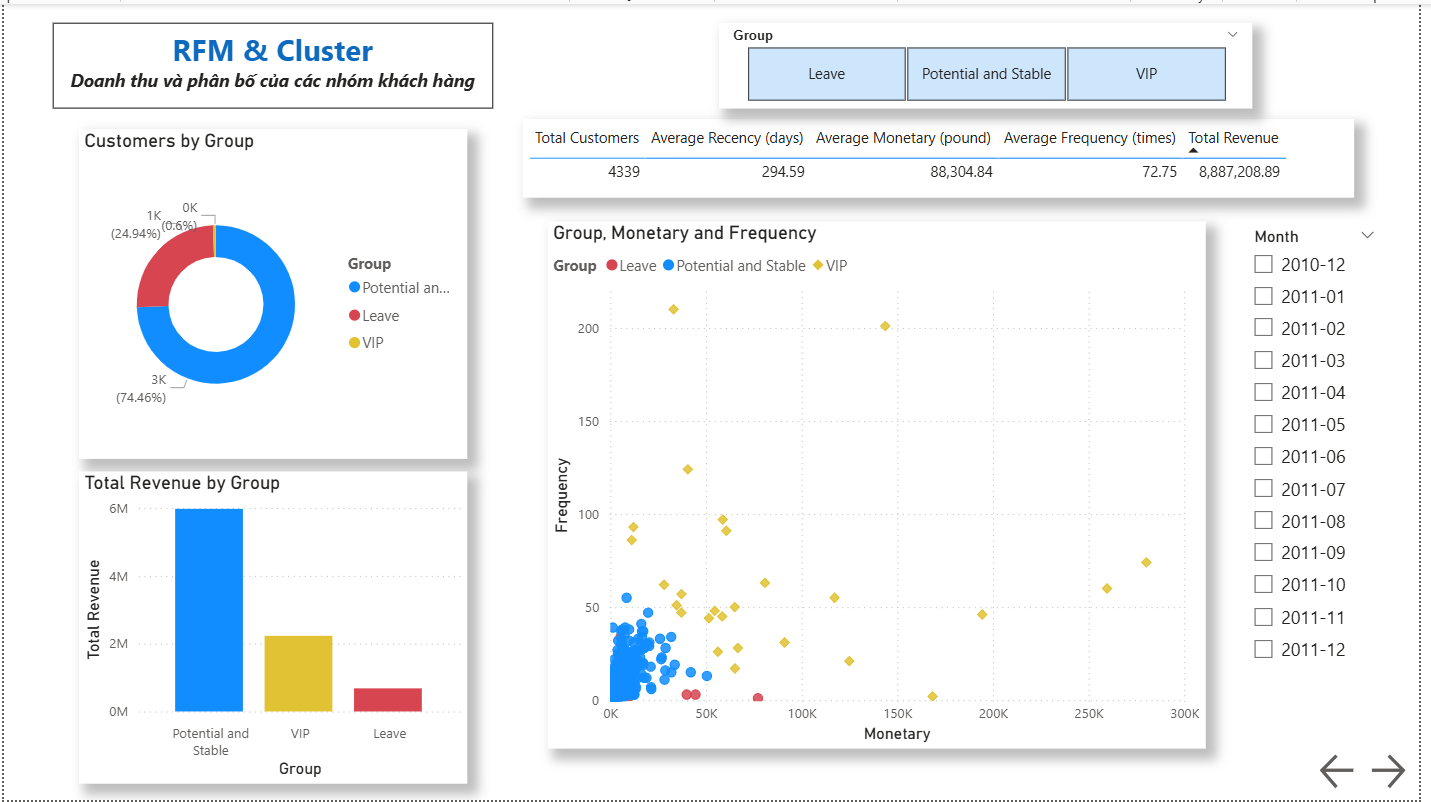
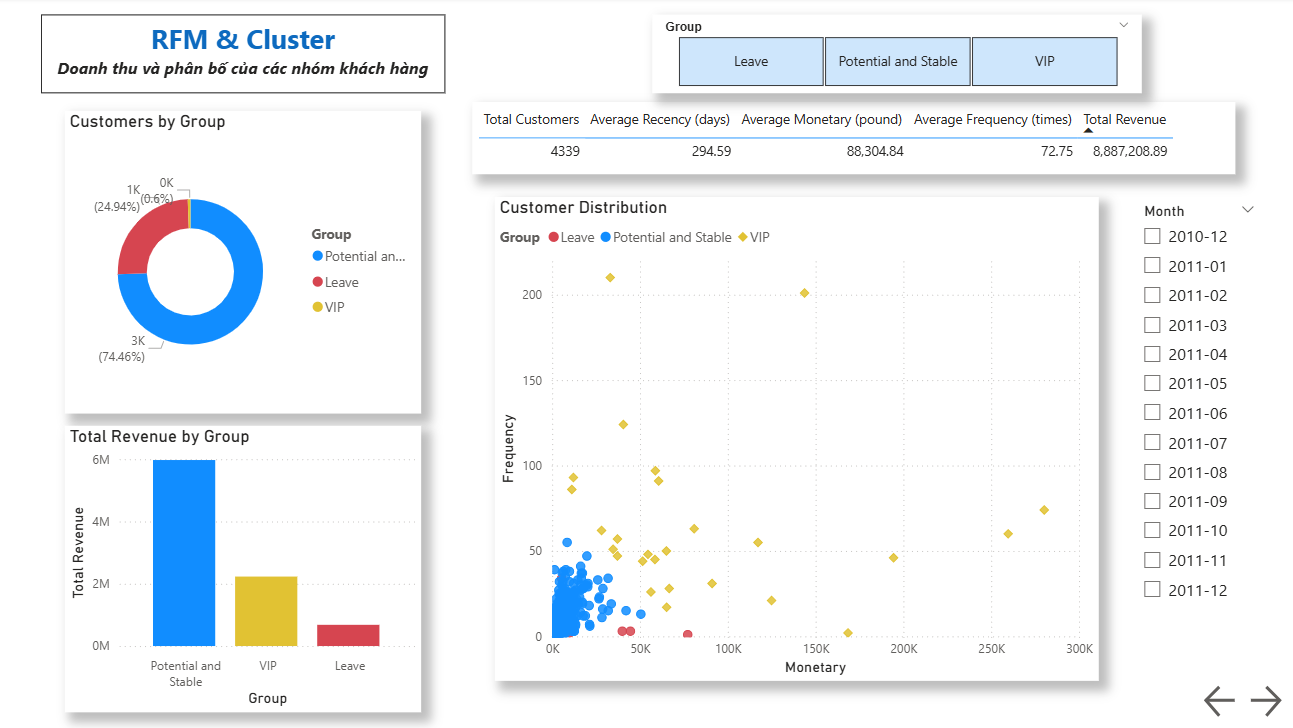
Update reports

diff --git a/reports/Project_Summary.md b/reports/Project_Summary.md
@@ -2,3 +2,89 @@
 
 ## 1. Mục tiêu dự án
 
+- Dự án gồm 4 mục tiêu chính sau đây:
+    + Phân tích hành vi khách hàng từ dữ liệu giao dịch.
+    + Phân cụm khách hàng sử dụng các chỉ số RFM và thuật toán Kmeans để xác định các nhóm khách hàng có hành vi tương tự nhau.
+    + Mô phỏng tác động của các chiến lược giả định dựa vào các chỉ số Retention, Frequency và AOV vào doanh thu.
+    + Xây dựng Dashboard trực quan hóa dữ liệu bằng PowerBI để hỗ trợ ra quyết định kinh doanh cho công ty.
+
+## 2. Nguồn dữ liệu
+
+- Bộ dữ liệu được lấy từ UCI Machine Learning. Đường link: https://archive.ics.uci.edu/dataset/352/online+retail. Bộ dữ liệu bao gồm tập hợp các giao dịch của các khách hàng từ 1/12/2010 đến 9/12/2011 ở UK của một công ty bán lẻ trực tuyến không thông qua cửa hàng. Công ty chủ yếu bán các món hàng quà tặng độc đáo và khách hàng đa số là các nhà buôn bán sỉ.
+    
+- Để đưa vào PowerBI sau quá trình xử lý được tách ra thành các bảng chính:
+    + orders_details: Chi tiết đơn hàng
+    + sales_by_month: Doanh thu theo tháng
+    + customer_rfm: Điểm RFM theo từng khách hàng
+    + cluster_summary: Kết quả tóm tắt phân cụm
+    + strategy_impact: Kịch bản chiến lược giả định
+
+## 3. Công cụ và kỹ thuật sử dụng
+
+### Ngôn ngữ **Python**:
+
+- Tiền xử lý dữ liệu: Sử dụng Pandas để loại bỏ các giá trị thiếu, lặp. Chuyển đổi kiểu dữ liệu, tạo thêm các cột cần thiết
+- EDA: Sử dụng matplotlib và seaborn để trực quan hóa dữ liệu. Tìm các insight và đưa ra các câu hỏi cần thiết đồng thời đưa ra các nhận định liên quan.
+- Thuật toán Kmeans để phân cụm khách hàng dựa vào các điểm số R-F-M. Những người có những hành vi tương đồng như thời gian mua kể từ lần cuối, số tiền đã sử dụng cho việc thanh toán, tần suất mua trong quá trình được khảo sát sẽ được đưa về 1 nhóm. Sau thuật toán, những khách hàng trong bộ dữ liệu được chia làm 3 nhóm: Leave (những người có xu hướng rời bỏ, rất lâu rồi chưa mua lại, số tiền sử dụng ít và tần suất mua thấp), Stable and Potential (những người có xu hướng trung thành, mua nhiều lần và có số tiền sử dụng tương đối và tần suất mua trung bình), VIP (những người có xu hướng mua nhiều lần, số tiền sử dụng nhiều và tần suất mua cao).
+
+### Công cụ trực quan: **PowerBI**
+
+- Sử dụng các công thức DAX để tính toán các chỉ số cần thiết.
+- Tạo các biểu đồ chi tiết hơn để tìm ra insight dữ liệu.
+
+### Kỹ thuật phân tích:
+
+- RFM Analysis: sử dụng các chỉ số R (Recency), F (Frequency) và M (Monetary) để xác định các nhóm khách hàng có hành vi tương tự nhau.
+- Customer Segmentation (Clustering): Sử dụng thuật toán Kmeans để phân cụm khách hàng dựa trên các chỉ số RFM.
+- Suggetion Strategy: Sử dụng các chỉ số Retention, Frequency và AOV để mô phỏng tác động của các chiến lược giả định vào doanh thu.
+
+## 4 Kết quả chính
+
+- Xác định được 3 nhóm khách hàng với các hành vi mua hàng khác nhau. Những nhóm khách hàng này có thể áp dụng các chiến lược khác nhau để tối ưu doanh thu và chi phí vận hành các chiến dịch.
+- Đề xuất các chiến lược hợp lý cho từng nhóm. Các chiến lược sẽ sử dụng thêm các trọng số trên từng yếu tố để không bị phóng đại doanh thu kỳ vọng. Dự án sử dụng 3 yếu tố chính để đánh giá 1 chiến lược tác động vào doanh thu dựa vào doanh thu hiện tại là: retention rate (% khách hàng quay lại hoặc giữ lại thêm), frequency uplift (số lần mua tăng thêm của 1 khách hàng), aov uplift (% giá trị đơn hàng tăng thêm dựa vào cross-sell, upsell).
+
+### Các chiến lược được đề xuất trong dự án gồm 4 kịch bản:
+
+- Kịch bản 1: Tăng trưởng nhanh những rủi ro cao:
+
+    + Đối với nhóm khách hàng rời bỏ (1) ta dự định sẽ tung ra chiến dịch tặng voucher để lôi kéo họ quay lại tập trung vào Retention và do họ quay lại thì freq_uplift có thể tăng nhẹ nhưng AOV của họ sẽ thấp.
+    + Đối với nhóm khách hàng tiềm năng và ổn định (0) ta chăm sóc bằng email và sẽ làm tăng khả năng mua thêm của nhóm này ta có retention_target vừa phải do nhóm này rủi ro rời bỏ không quá cao. Khuyến khích họ mua nhiều hơn với các chương trình giảm giá đồng thời thúc đấy AOV tăng nhẹ bằng upsell ở giỏ hàng.
+    + Đối với nhóm khách hàng VIP (2) ta dự định tặng VIP membership và dự kiến họ sẽ mua nhiều hơn một chút các chỉ số retention_target = 0.15, freq_uplift = 0.1, aov_uplift = 0.2 (tăng 20% giá trị đơn hàng). Cần đặt nặng vào AOV và Frequency ít hơn ở Retention
+
+- Kịch bản 2: Thận trọng tăng trưởng bền vững với rủi ro ở mức thấp nhất:
+
+    + Khách hàng rời bỏ: Tập trung giữ chân, ít ưu tiên cross-sell hơn retention_target = 0.1. Tăng tần suất mua của nhóm này ở mức thấp freq_uplift = 0.1 kéo theo AOV gần như không đổi aov_uplift = 0.01. Trọng số nghiêng mạnh về retention
+    + Khách hàng VIP: Chủ yếu giữ chân và ít tập trung vào 2 yếu tố còn lại. retention_target = 0.05, freq_uplift = 0.05, aov_uplift = 0.01.
+    + Khách hàng tiềm năng và ổn định: Chiến dịch nhẹ nhàng tập trung cao vào độ ổn định. retention_target = 0.05, freq_uplift = 0.1, aov_uplift = 0.02.
+
+- Kịch bản 3: Tối ưu chi phí giữ chân khách hàng nhiều nhất có thể với chi phí tối ưu nhất
+
+    + Khách hàng rời bỏ: cố gắng tăng retention (0.05) và không tập trung tăng freq và aov.
+    + Khách hàng VIP: Gần như giữ nguyên và không đẩy nhiều khuyến mãi
+    + Khách hàng tiềm năng và ổn định: tăng nhẹ AOV bằng cross-sell
+
+- Giả định rằng từng chiến dịch ở mỗi kịch bản đều thành công thì doanh thu kỳ vọng cho thấy với Kịch bản 1 cho mức tăng trưởng 22,33%, Kịch bản 2 cho mức tăng trưởng 5,89% và Kịch bản 3 cho mức tăng trưởng 0,90.
+
+## 5 Dashboard 
+
+- Sử dụng PowerBI trực quan hóa dữ liệu gồm 3 trang.
+    + Trang 1: Trực quan hóa doanh thu (theo từng tháng, quý, năm). Các sản phẩm cho doanh thu cao nhất, các khách hàng đóng góp nhiều vào doanh thu nhất. Số lượng đơn hàng theo quý, năm. Doanh thu tổng hợp theo từng quốc gia mua hàng.
+    + Trang 2: Tỷ trọng khách hàng theo từng nhóm, doanh thu theo từng nhóm, phân bố của nhóm theo các chỉ số RFM.
+    + Trang 3: Thay đổi doanh thu theo các yếu tố, doanh thu kỳ vọng theo từng kịch bản và doanh thu kỳ vọng theo từng nhóm.
+
+- Link PowerBI Service: https://app.powerbi.com/links/aM35kkihLh?ctid=40127cd4-45f3-49a3-b05d-315a43a9f033&pbi_source=linkShare
+
+## 6 Kết luận 
+
+- Qua quá trình phân tích, xử lý và đánh giá rút ra được một số kết luận quan trọng:
+    + Hiểu rõ hành vi khách hàng theo từng phân khúc, theo từng mùa trong năm: Phân cụm khách hàng có sự khác biệt rõ rệt về tần suất mua và giá trị đơn hàng giữa các nhóm.
+    + Yếu tố thời gian, mùa vụ lễ hội cũng ảnh hưởng đến hành vi mua hàng. Các dịp lễ lớn trong năm thường thu hút nhiều khách hàng mua hàng hơn. Các sản phẩm chủ lực cũng đóng vai trò quan trọng trong việc tăng trưởng doanh thu
+
+- Xác định cơ hội tăng trưởng doanh thu:
+    + Nắm bắt về thời gian cao điểm trong năm có thể làm tăng trưởng doanh thu.
+    + Xác định các sản phẩm chủ lực, mở rộng mẫu mã.
+    + Nắm bắt tâm lý của từng nhóm khách hàng. Nhóm khách hàng rời bỏ mặc dù đã lâu không mua và tần suất mua thấp nhưng số tiền trung bình họ bỏ ra cũng khá lớn nên có thể đưa ra thêm các chiến lược giữ chân định kỳ hoặc các chương trình khuyến mãi vào mùa lễ hội.
+
+- Các kịch bản giả định mang lại hiệu quả tăng doanh thu đáng kể:
+    + Mô phỏng chiến dịch cho thấy việc cải thiện các chỉ số như Frequency và AOV có thể giúp tăng doanh thu đáng kể.
+    + Cân nhắc chi phí bỏ ra cũng là một phần quan trọng trong việc cải thiện doanh thu.
